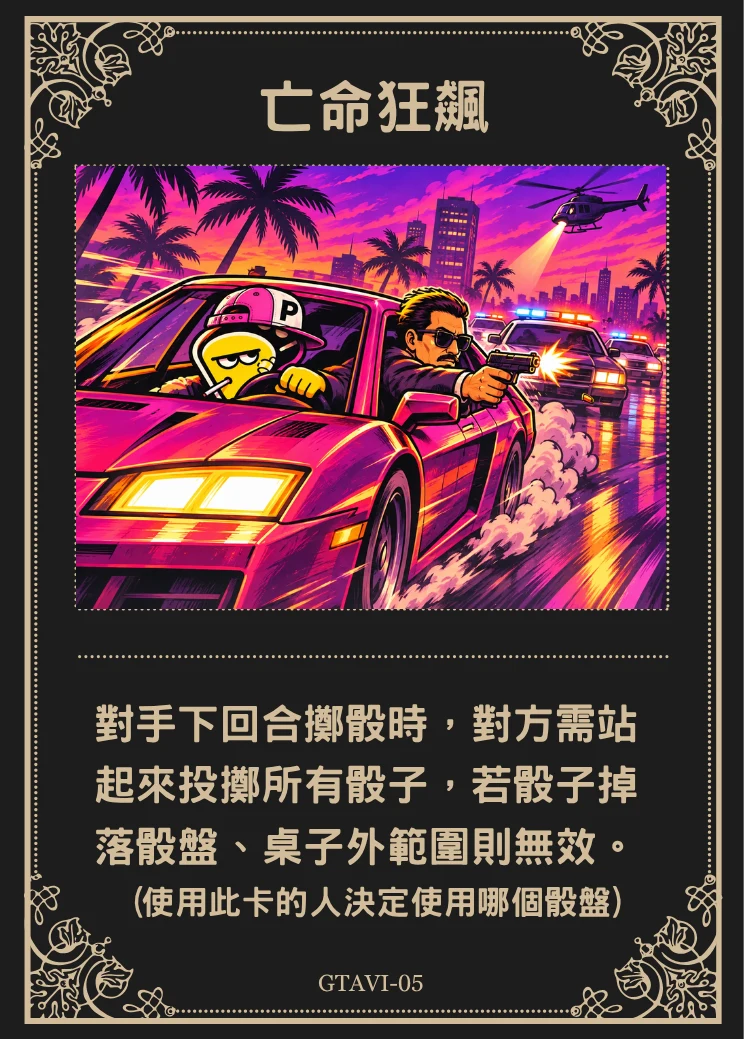
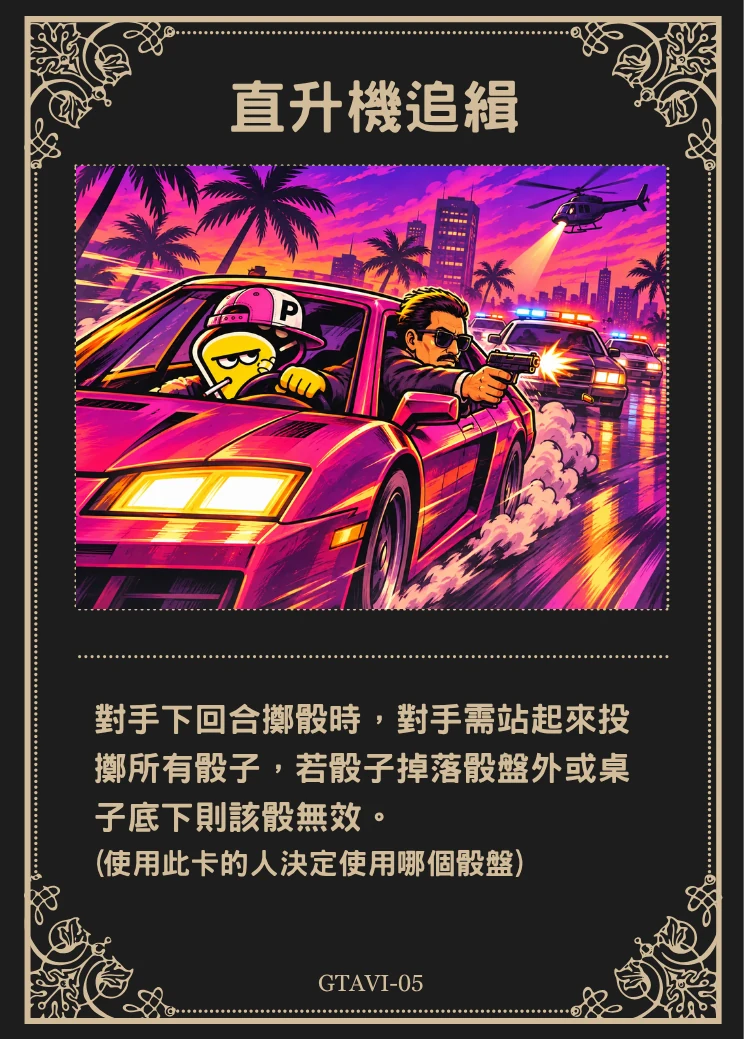
feat: 罪惡城十二張主題卡換新圖，卡名與內文跟著對齊
新的 PNG 轉成 WebP（744×1039，7.58MB → 1.81MB，quality 88）。來源資料夾
「Meetup 主題規則卡/」在 .gitignore 裡，只有轉好的檔案進版控。

這批改動有五張連卡名都換了（故障骰子→故障的作弊骰子、亡命狂飆→直升機追緝、
地下交易→不公平的交易、武力威嚇→武力支援、十面埋伏→有福同享），十二張的內文
也都重寫過。有卡圖的時候 name/text 不會顯示在畫面上，但 name 是圖片的 alt，
留著舊卡名等於讀螢幕的人聽到的是另一張卡。

Changed region(s): [[0.1237, 0.6776, 0.8656, 0.8932], [0.3091, 0.0616, 0.711, 0.154]]

diff --git a/src/data/themeCards.js b/src/data/themeCards.js
@@ -37,84 +37,84 @@ export const THEME_CARD_SETS = [
         id: 'gtavi-01',
         no: 'GTAVI-01',
         name: '警察！趴下！',
-        text: '對方下回合角色骰面固定為倒立。（無法用招式改判骰面）',
+        text: '對手下回合角色骰面固定為倒立。（無法用招式改判骰面）',
         image: 'sin-city/GTAVI-01.webp'
       },
       {
         id: 'gtavi-02',
         no: 'GTAVI-02',
-        name: '故障骰子',
-        text: '對手下個回合擲骰結束後，由自己決定一顆對方的能量骰重擲一次。',
+        name: '故障的作弊骰子',
+        text: '本回合我方擲骰結束後，由我方決定一顆能量骰，由對方重擲一次。',
         image: 'sin-city/GTAVI-02.webp'
       },
       {
         id: 'gtavi-03',
         no: 'GTAVI-03',
         name: '黑吃黑',
-        text: '此回合我方攻擊後額外造成我方先減 20 血量，對方再減 20 血量。（無法用招式效果免除傷害）',
+        text: '此回合我方攻擊後執行以下：我方先減 20 血量，對方再減 20 血量。（無法用招式效果免除傷害）',
         image: 'sin-city/GTAVI-03.webp'
       },
       {
         id: 'gtavi-04',
         no: 'GTAVI-04',
         name: '趁火打劫',
-        text: '若對方上回合使出火屬性招式，本回合你造成傷害最後額外加上 20。',
+        text: '若對手上回合使出火屬性招式，本回合我方造成對手傷害額外加上 20。',
         image: 'sin-city/GTAVI-04.webp'
       },
       {
         id: 'gtavi-05',
         no: 'GTAVI-05',
-        name: '亡命狂飆',
-        text: '對手下回合擲骰時，對方需站起來投擲所有骰子，若骰子掉落骰盤、桌子外範圍則無效。（使用此卡的人決定使用哪個骰盤）',
+        name: '直升機追緝',
+        text: '對手下回合擲骰時，對手需站起來投擲所有骰子，若骰子掉落骰盤外或桌子底下則該骰無效。（使用此卡的人決定使用哪個骰盤）',
         image: 'sin-city/GTAVI-05.webp'
       },
       {
         id: 'gtavi-06',
         no: 'GTAVI-06',
-        name: '地下交易',
-        text: '由你選擇對方的一個能量骰，由對方選擇你的一個能量骰，兩邊互相交換。',
+        name: '不公平的交易',
+        text: '先由你選擇對方的一個能量骰，再由對方選擇你的一個能量骰，兩邊同時交換後繼續進行遊戲。',
         image: 'sin-city/GTAVI-06.webp'
       },
       {
         id: 'gtavi-07',
         no: 'GTAVI-07',
-        name: '武力威嚇',
-        text: '展示角色骰給對方看，對手下回合攻擊時，你減傷 20。',
+        name: '武力支援',
+        text: '本回合我方角色骰可重擲一次。',
         image: 'sin-city/GTAVI-07.webp'
       },
       {
         id: 'gtavi-08',
         no: 'GTAVI-08',
         name: '突破火線',
-        text: '對手下回合攻擊使你受到致命傷時，我方丟擲角色骰，若面朝左、右，則傷害減 20。',
+        text: '對手下回合攻擊使我方受到致命傷時，我方丟擲角色骰一次，若面朝左、右，則傷害減 20。',
         image: 'sin-city/GTAVI-08.webp'
       },
       {
         id: 'gtavi-09',
         no: 'GTAVI-09',
         name: '越獄計畫',
-        text: '免除對手上回合對你所有招式與卡片所帶來的控制。',
+        text: '免除對手上回合對你所有招式與主題卡所帶來的控制。',
         image: 'sin-city/GTAVI-09.webp'
       },
       {
         id: 'gtavi-10',
         no: 'GTAVI-10',
-        name: '十面埋伏',
-        text: '對方上回合若未造成傷害，本回合可重擲角色骰一次。',
+        name: '有福同享',
+        text: '對手下回合與我方下個回合角色骰固定為立。（無法用招式改判骰面）',
         image: 'sin-city/GTAVI-10.webp'
       },
       {
         id: 'gtavi-11',
         no: 'GTAVI-11',
         name: '口頭警告',
-        text: '若本回合自己無造成傷害，則下回合傷害結算後額外增加 20 點傷害。',
+        text: '若本回合無造成對手傷害，則下回合傷害結算時，額外造成對手 20 點傷害。',
         image: 'sin-city/GTAVI-11.webp'
       },
       {
         id: 'gtavi-12',
         no: 'GTAVI-12',
         name: '順手牽羊',
-        text: '本回合選擇對手一招來使用，同樣需達成招式指定能量與角色骰面。',
+        text: '本回合選擇對手一個招式來使用，需達成招式指定能量與角色骰面。',
         image: 'sin-city/GTAVI-12.webp'
       }
     ]
